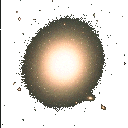
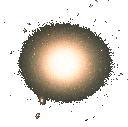
modified simclock constructor so it initializes UTC to system clock. added i18n() to debug statements in simclock rotated images for m87, m96, and m 98. updated ChangeLog and TODO
svn path=/trunk/kdeedu/kstars/; revision=146423

diff --git a/kstars/simclock.cpp b/kstars/simclock.cpp
@@ -17,6 +17,7 @@
 
 
 #include <kdebug.h>
+#include <klocale.h>
 
 #include "simclock.h"
 #include "ksutils.h"
@@ -92,7 +93,7 @@ bool SimClock::isActive() {
 // The SimClockInterface
 void SimClock::stop() {
 	if (tmr.isActive()) {
-		kdDebug() << "Stopping the timer" << endl;
+		kdDebug() << i18n( "Stopping the timer" ) << endl;
 		tmr.stop();
 		emit clockStopped();
 	}
@@ -100,7 +101,7 @@ void SimClock::stop() {
 
 void SimClock::start() {
 	if (! tmr.isActive()) {
-		kdDebug() << "Starting the timer" << endl;
+		kdDebug() << i18n( "Starting the timer" ) << endl;
 		sysmark.start();
 		julianmark = julian;
 		lastelapsed = 0;
@@ -118,8 +119,8 @@ void SimClock::setUTC(const QDateTime &newtime) {
 		sysmark.start();
 		lastelapsed = 0;
 	}
-	kdDebug() << "Setting clock UTC = " << utc.toString() << 
-		" julian = " << QString("%1").arg( julian, 10, 'f', 2) << endl;
+	kdDebug() << i18n( "Setting clock UTC = " ) << utc.toString() <<
+		i18n( " julian day = " ) << QString("%1").arg( julian, 10, 'f', 2) << endl;
 	emit timeChanged();
 
 }

diff --git a/kstars/simclock.h b/kstars/simclock.h
@@ -21,7 +21,7 @@ class SimClock : public QObject, public SimClockInterface {
 		 * Constructor
 		 * @param when the date/time to which the SimClock should be initialized in UTC
 		 */
-		SimClock(QObject *parent = 0, const QDateTime &when = QDateTime());
+		SimClock(QObject *parent = 0, const QDateTime &when = QDateTime::currentDateTime() );
 		/**
 		 * Constructor
 		 * @param old a SimClock to initialize from.
